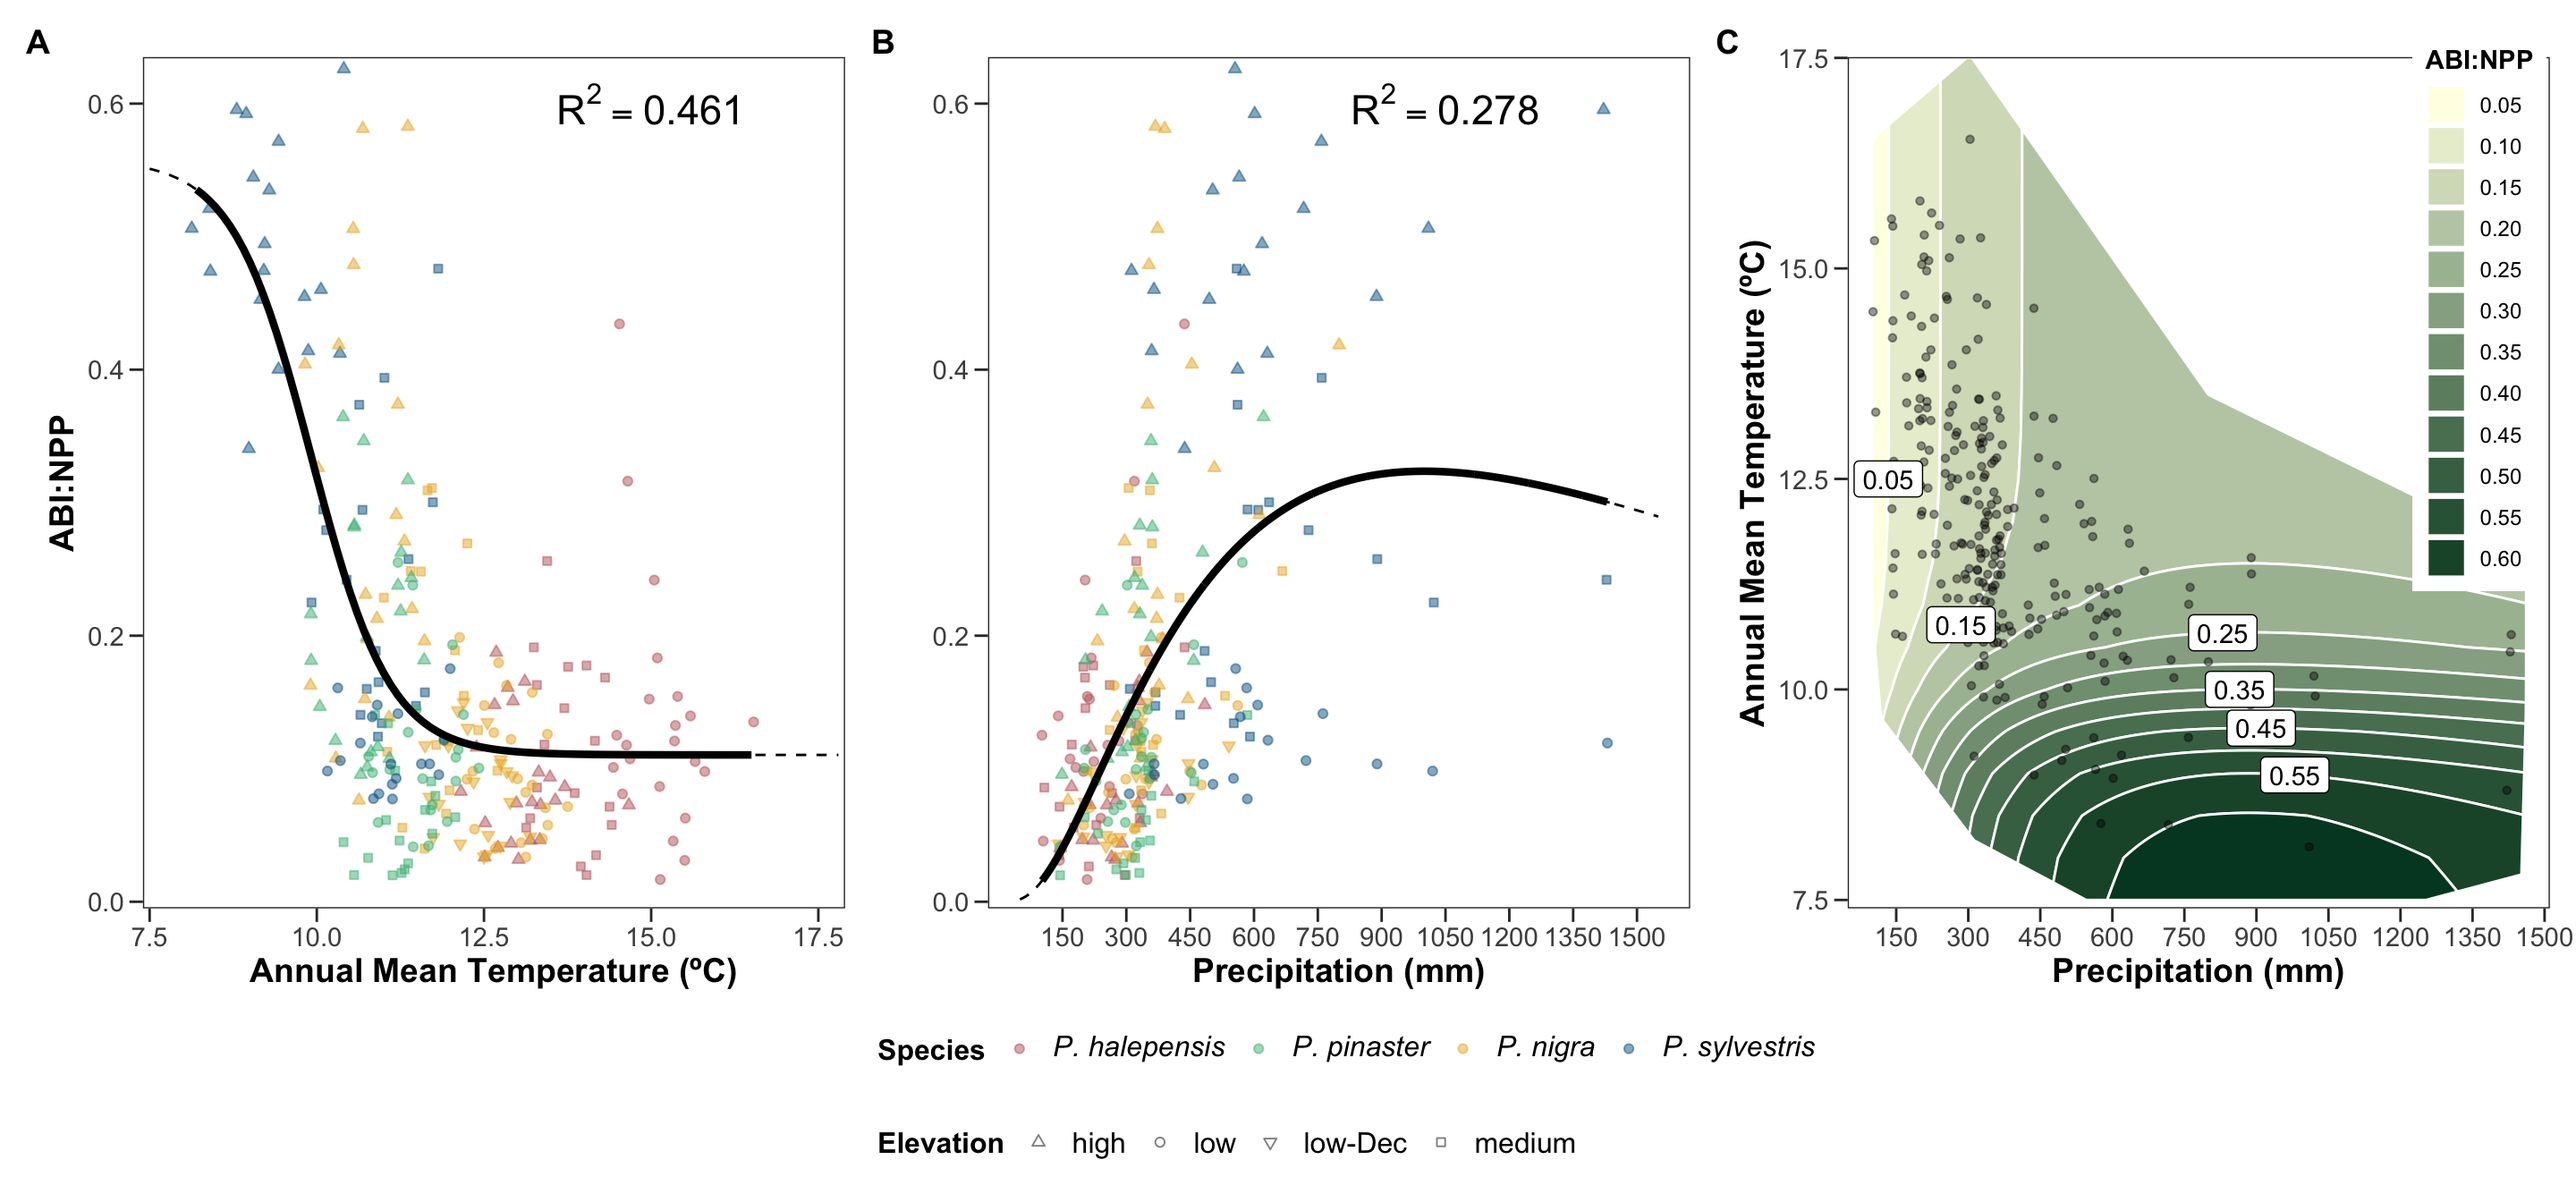
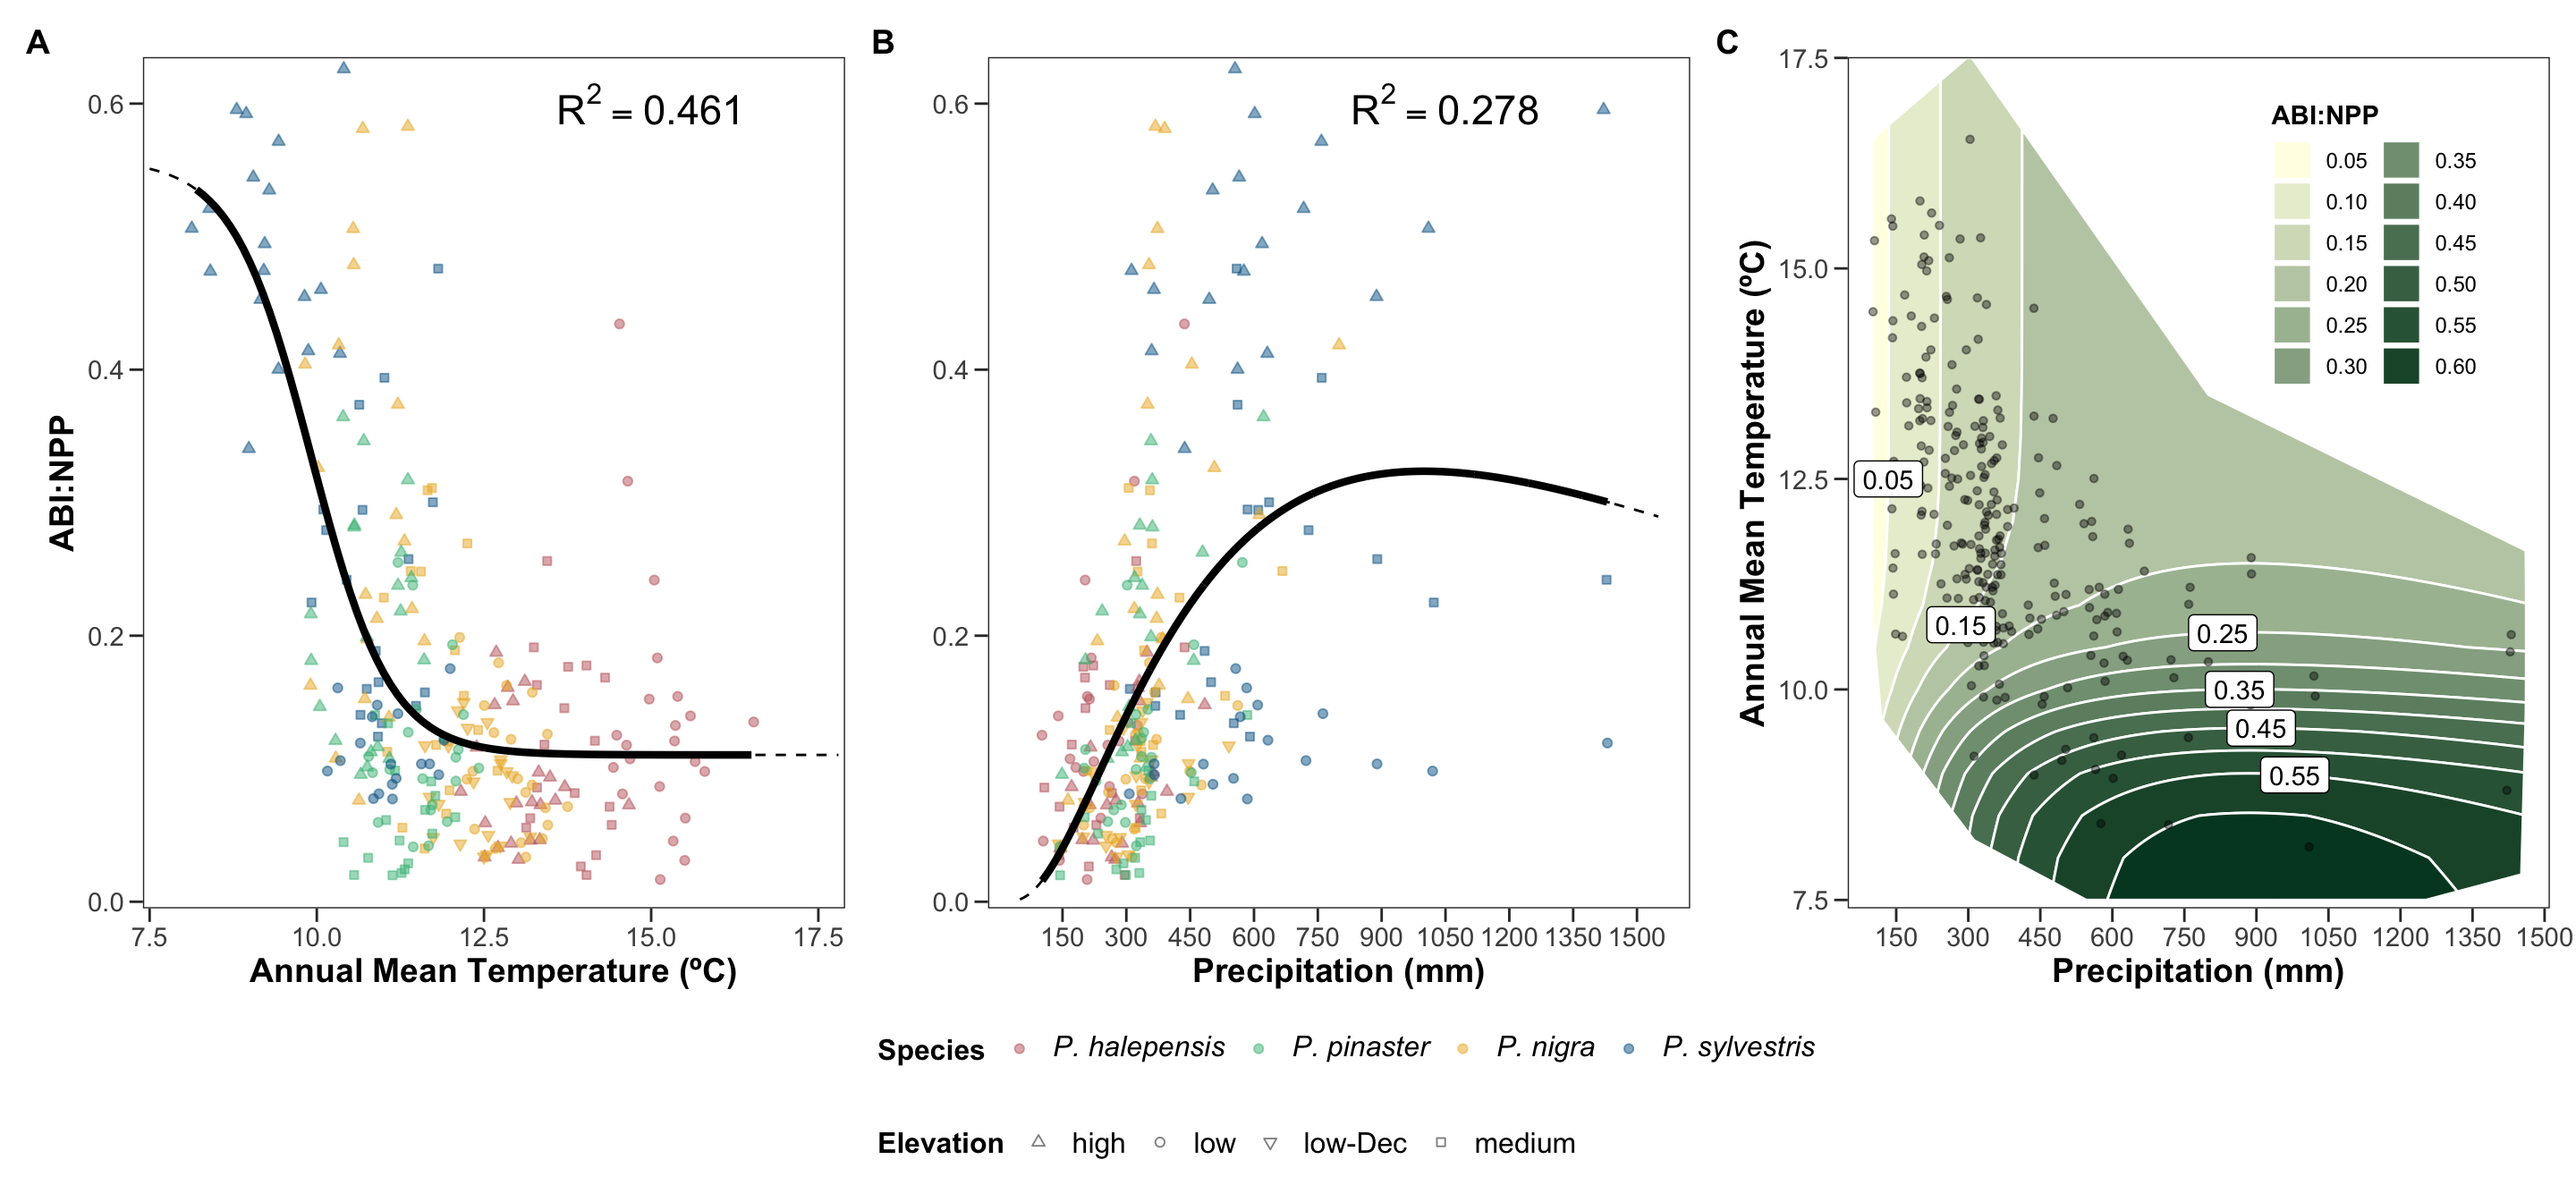
Build site.

Changed region(s): [[0.875, 0.0312, 1.0, 0.5]]

diff --git a/docs/modelling_ratio_selected.html b/docs/modelling_ratio_selected.html
@@ -402,7 +402,7 @@ Checks <span class="glyphicon glyphicon-ok text-success" aria-hidden="true"></sp
 <div class="tab-content">
 <div id="summary" class="tab-pane fade in active">
 <p>
-<strong>Last updated:</strong> 2024-07-19
+<strong>Last updated:</strong> 2024-07-20
 </p>
 <p>
 <strong>Checks:</strong>
@@ -530,20 +530,20 @@ makes it easier to run your code on other machines.</p>
 <div class="panel panel-default">
 <div class="panel-heading">
 <p class="panel-title">
-<a data-toggle="collapse" data-parent="#workflowr-checks" href="#strongRepositoryversionstrongahrefhttpsgithubcomajpeluadaptameddendroanalysistree35b04beee2c88dec4c97c3b39a3e535b53ec2739targetblank35b04bea">
+<a data-toggle="collapse" data-parent="#workflowr-checks" href="#strongRepositoryversionstrongahrefhttpsgithubcomajpeluadaptameddendroanalysistree2b65570b78a1473cc59e2b2ad790607587cc86adtargetblank2b65570a">
 <span class="glyphicon glyphicon-ok text-success" aria-hidden="true"></span>
-<strong>Repository version:</strong> <a href="https://github.com/ajpelu/adaptamed_dendroanalysis/tree/35b04beee2c88dec4c97c3b39a3e535b53ec2739" target="_blank">35b04be</a>
+<strong>Repository version:</strong> <a href="https://github.com/ajpelu/adaptamed_dendroanalysis/tree/2b65570b78a1473cc59e2b2ad790607587cc86ad" target="_blank">2b65570</a>
 </a>
 </p>
 </div>
[2 lines of base64/hex data omitted]
 <div class="panel-body">
 <p>
 Great! You are using Git for version control. Tracking code development and
 connecting the code version to the results is critical for reproducibility.
 </p>
 <p>
-The results in this page were generated with repository version <a href="https://github.com/ajpelu/adaptamed_dendroanalysis/tree/35b04beee2c88dec4c97c3b39a3e535b53ec2739" target="_blank">35b04be</a>.
+The results in this page were generated with repository version <a href="https://github.com/ajpelu/adaptamed_dendroanalysis/tree/2b65570b78a1473cc59e2b2ad790607587cc86ad" target="_blank">2b65570</a>.
 See the <em>Past versions</em> tab to see a history of the changes made to the
 R Markdown and HTML files.
 </p>
@@ -568,7 +568,6 @@ Ignored files:
 Unstaged changes:
     Modified:   analysis/modelling_abi.Rmd
     Modified:   output/figure_model_selected.png
-    Modified:   output/figure_model_validation.png
 
 </code></pre>
 <p>
@@ -613,6 +612,40 @@ Message
 </tr>
 </thead>
 <tbody>
+<tr>
+<td>
+Rmd
+</td>
+<td>
+<a href="https://github.com/ajpelu/adaptamed_dendroanalysis/blob/2b65570b78a1473cc59e2b2ad790607587cc86ad/analysis/modelling_ratio_selected.Rmd" target="_blank">2b65570</a>
+</td>
+<td>
+ajpelu
+</td>
+<td>
+2024-07-20
+</td>
+<td>
+correct figure
+</td>
+</tr>
+<tr>
+<td>
+html
+</td>
+<td>
+<a href="https://rawcdn.githack.com/ajpelu/adaptamed_dendroanalysis/b37d6b8faa954f8e0ff75bf093a0072af74ef7e7/docs/modelling_ratio_selected.html" target="_blank">b37d6b8</a>
+</td>
+<td>
+ajpelu
+</td>
+<td>
+2024-07-19
+</td>
+<td>
+Build site.
+</td>
+</tr>
 <tr>
 <td>
 Rmd
@@ -1266,6 +1299,17 @@ Date
 <tbody>
 <tr>
 <td>
+<a href="https://github.com/ajpelu/adaptamed_dendroanalysis/blob/b37d6b8faa954f8e0ff75bf093a0072af74ef7e7/docs/figure/modelling_ratio_selected.Rmd/unnamed-chunk-17-1.png" target="_blank">b37d6b8</a>
+</td>
+<td>
+ajpelu
+</td>
+<td>
+2024-07-19
+</td>
+</tr>
+<tr>
+<td>
 <a href="https://github.com/ajpelu/adaptamed_dendroanalysis/blob/8a4adb0db3be06bc1bbca87d9716039f5133e605/docs/figure/modelling_ratio_selected.Rmd/unnamed-chunk-17-1.png" target="_blank">8a4adb0</a>
 </td>
 <td>
@@ -1310,6 +1354,17 @@ Date
 <tbody>
 <tr>
 <td>
+<a href="https://github.com/ajpelu/adaptamed_dendroanalysis/blob/b37d6b8faa954f8e0ff75bf093a0072af74ef7e7/docs/figure/modelling_ratio_selected.Rmd/unnamed-chunk-25-1.png" target="_blank">b37d6b8</a>
+</td>
+<td>
+ajpelu
+</td>
+<td>
+2024-07-19
+</td>
+</tr>
+<tr>
+<td>
 <a href="https://github.com/ajpelu/adaptamed_dendroanalysis/blob/8a4adb0db3be06bc1bbca87d9716039f5133e605/docs/figure/modelling_ratio_selected.Rmd/unnamed-chunk-25-1.png" target="_blank">8a4adb0</a>
 </td>
 <td>
@@ -1348,6 +1403,17 @@ Date
 </tr>
 </thead>
 <tbody>
+<tr>
+<td>
+<a href="https://github.com/ajpelu/adaptamed_dendroanalysis/blob/b37d6b8faa954f8e0ff75bf093a0072af74ef7e7/docs/figure/modelling_ratio_selected.Rmd/unnamed-chunk-30-1.png" target="_blank">b37d6b8</a>
+</td>
+<td>
+ajpelu
+</td>
+<td>
+2024-07-19
+</td>
+</tr>
 <tr>
 <td>
 <a href="https://github.com/ajpelu/adaptamed_dendroanalysis/blob/8a4adb0db3be06bc1bbca87d9716039f5133e605/docs/figure/modelling_ratio_selected.Rmd/unnamed-chunk-30-1.png" target="_blank">8a4adb0</a>
